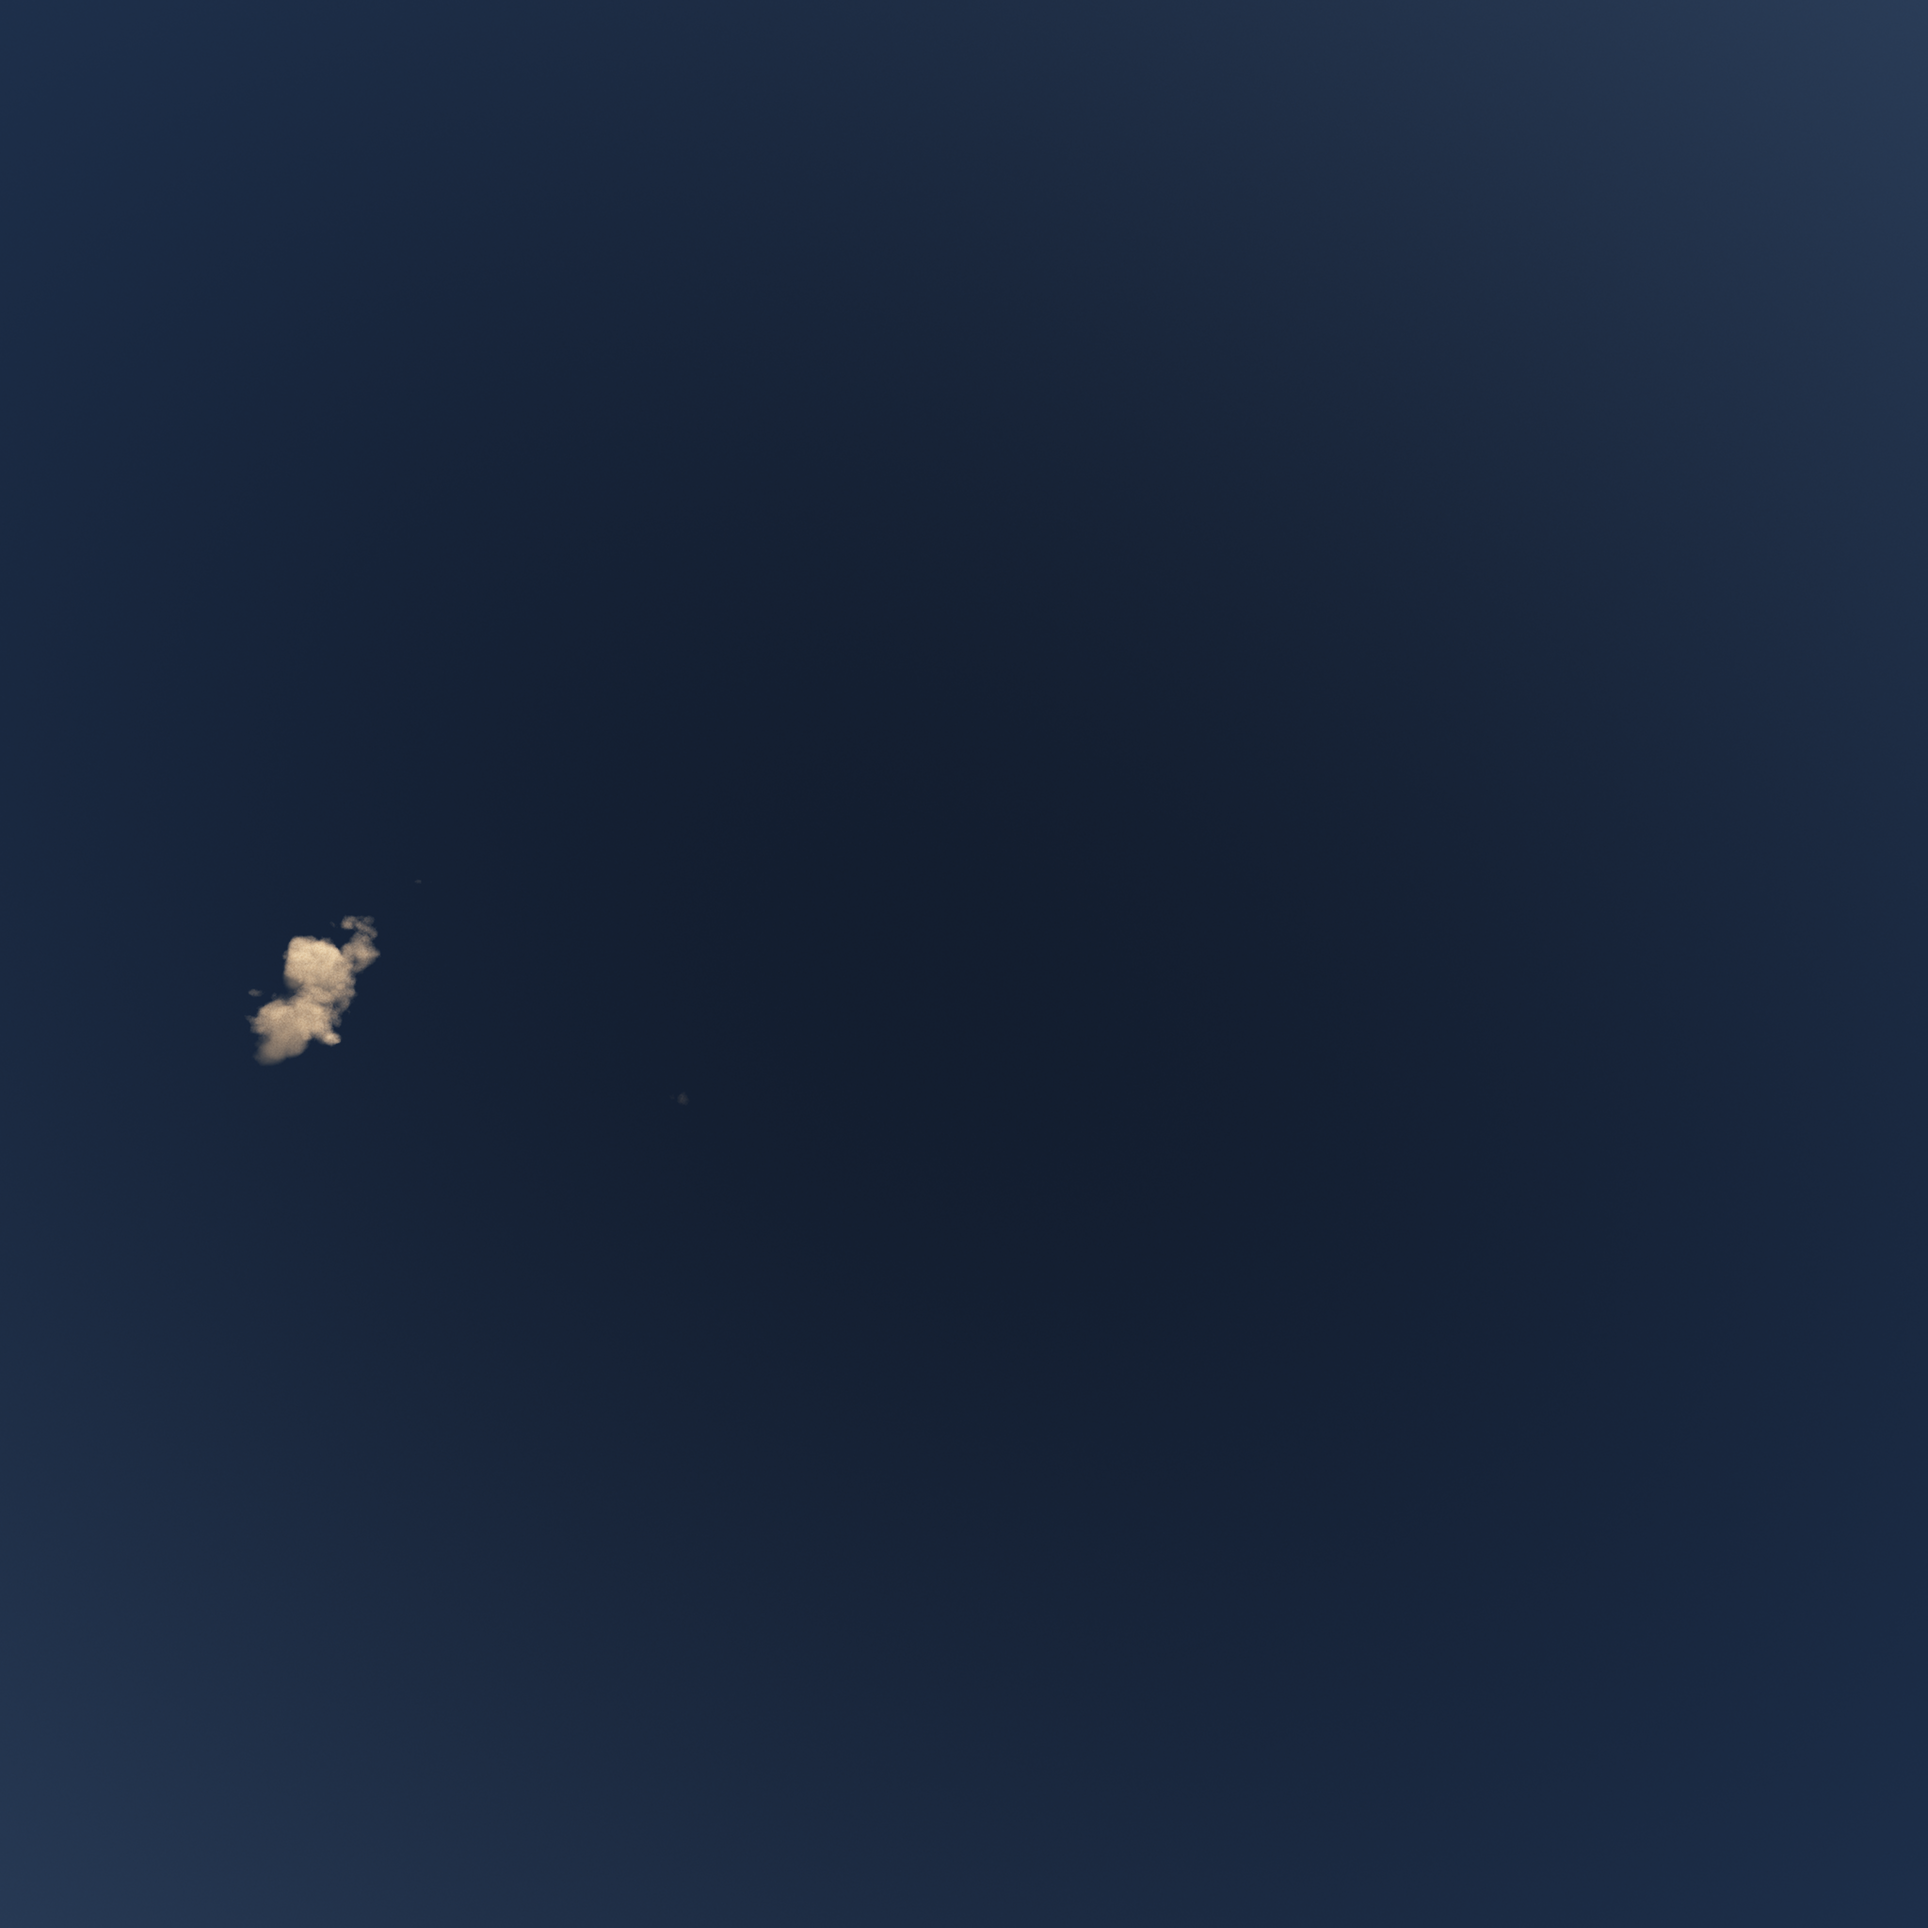
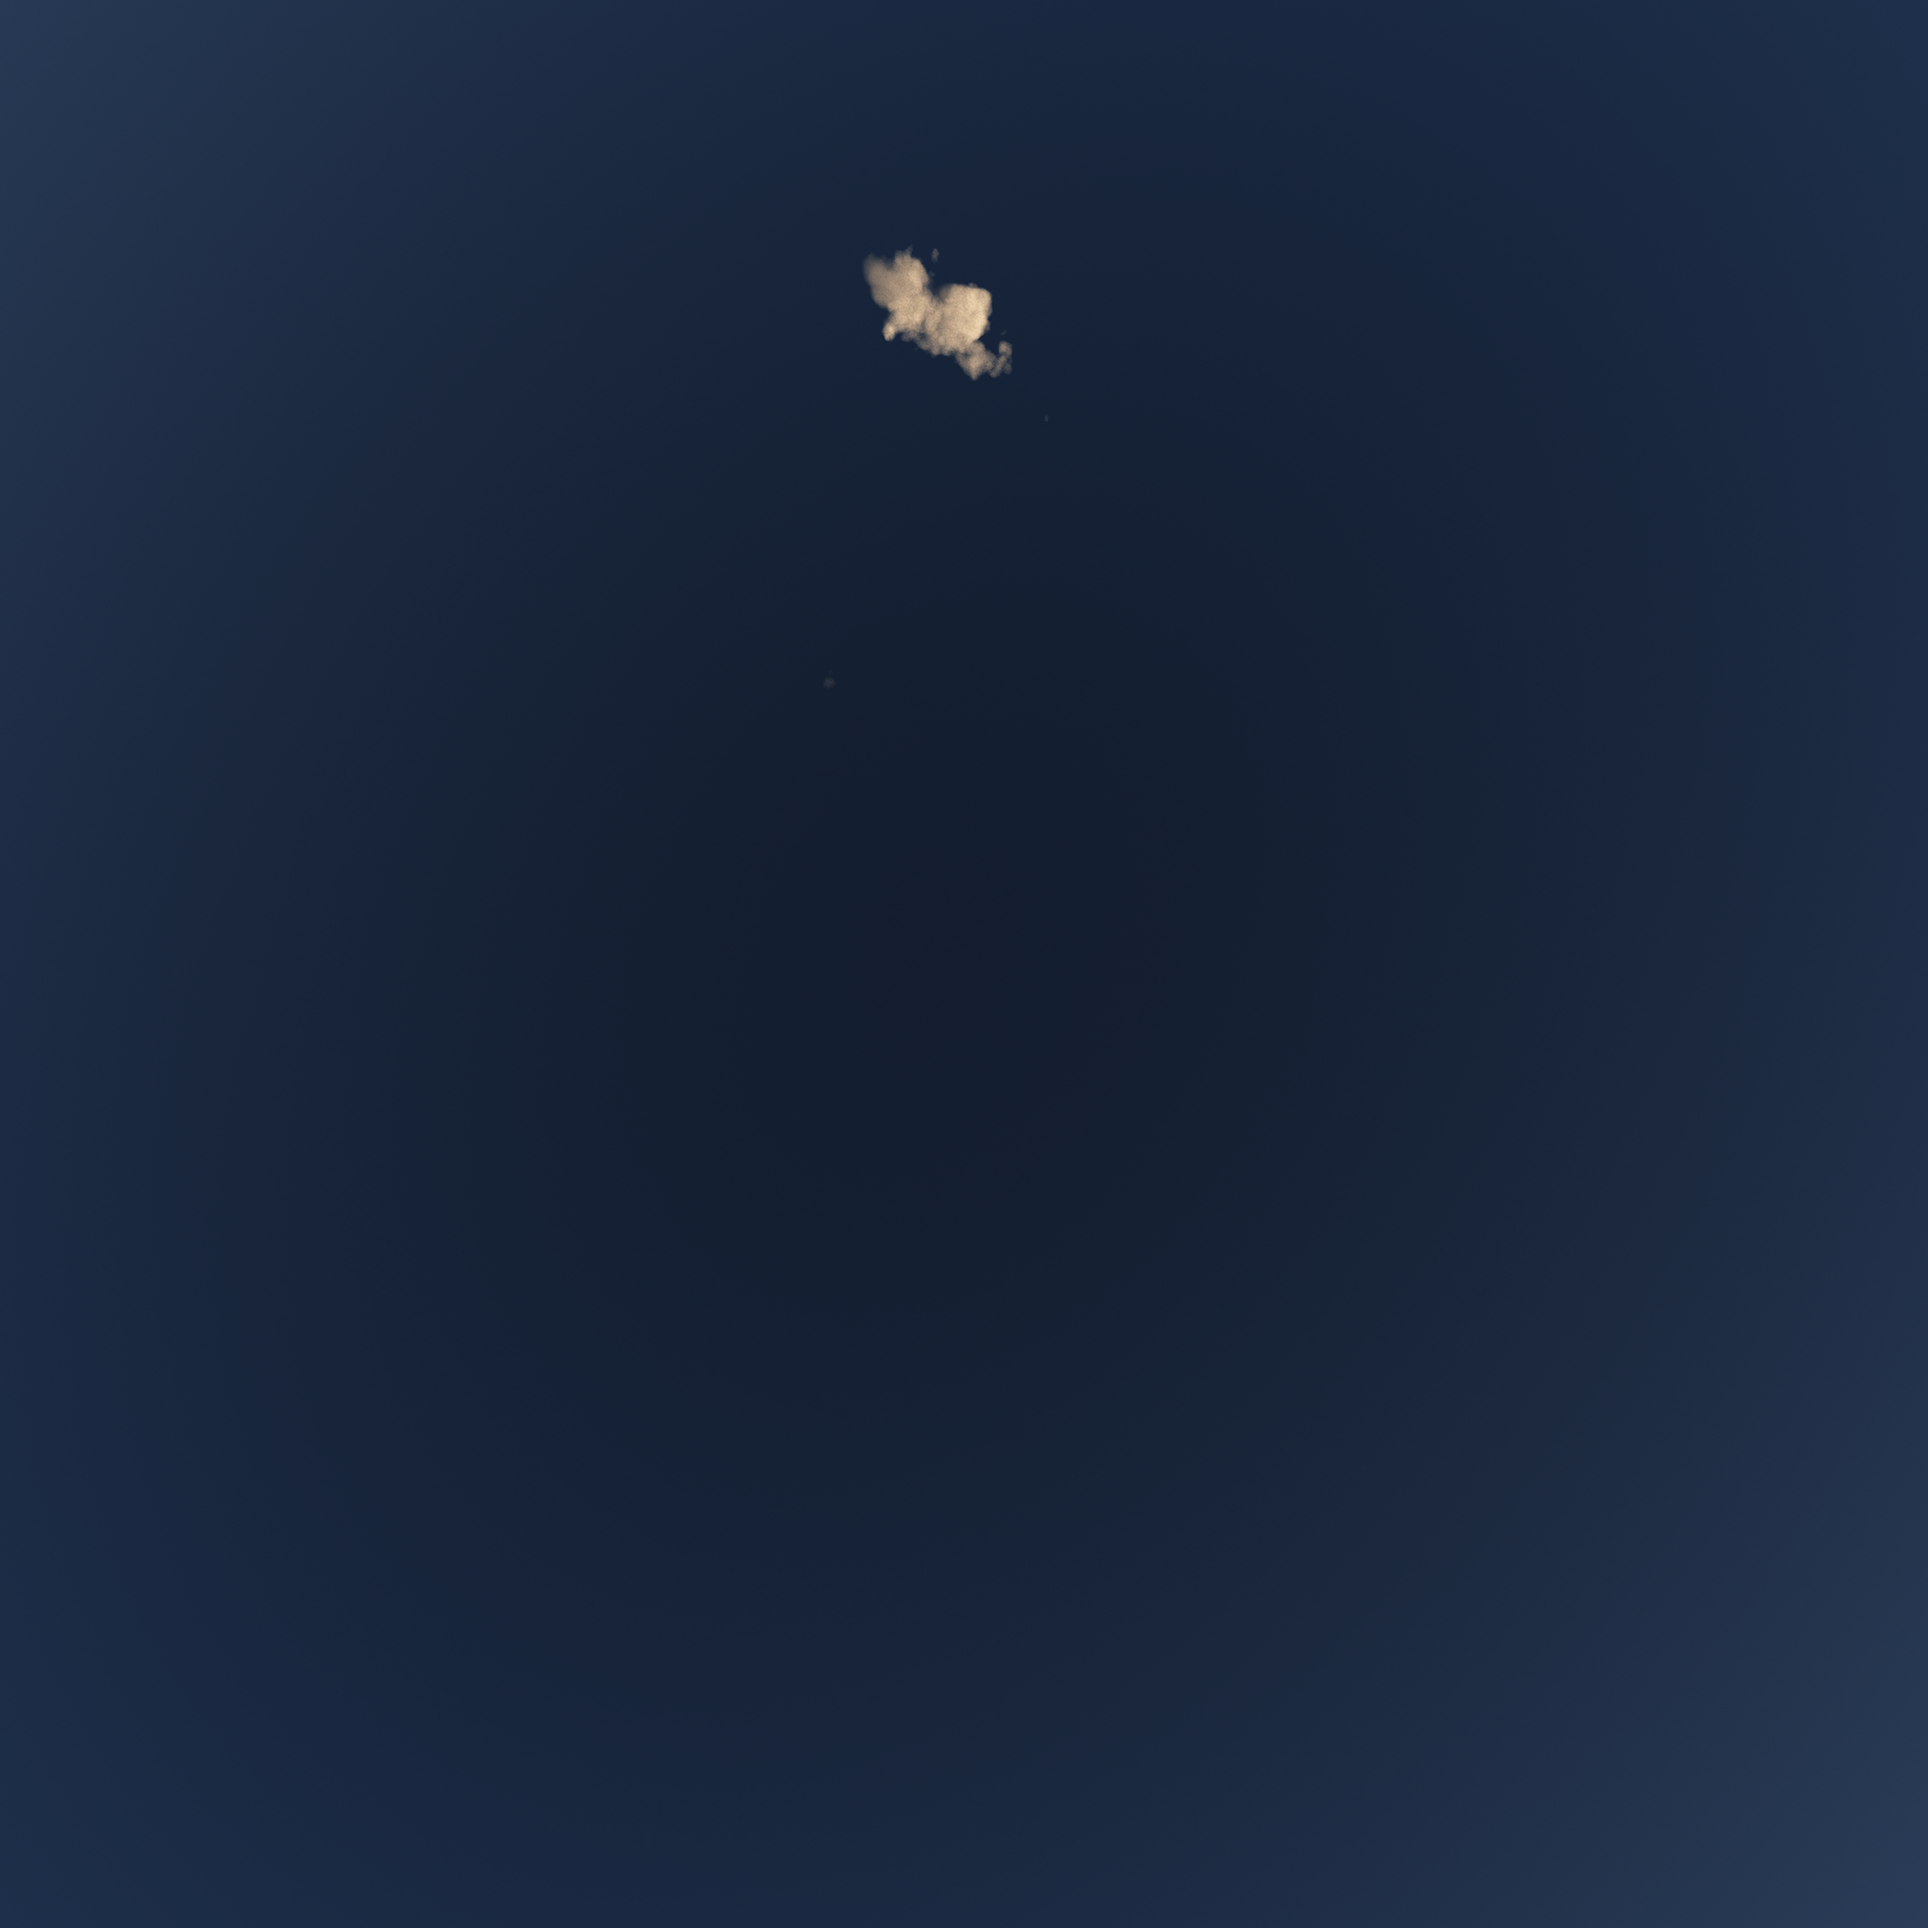
Added files via upload

Changed region(s): [[0.4375, 0.125, 0.5312, 0.2188], [0.125, 0.4688, 0.2188, 0.5625]]

diff --git a/FinalProjectWeb 1/js/cb.js b/FinalProjectWeb 1/js/cb.js
@@ -2,21 +2,18 @@ var camera,mirrorCamera, scene, renderer, controls;
 var geometry, material, mesh;
 var arr=[];
 var arr1 = [];
+var arr2 = [];
 function init() {
   scene = new THREE.Scene();
   var width = window.innerWidth;
   var height = window.innerHeight;
 
-  camera = new THREE.PerspectiveCamera(45, width/height, 0.1, 25000);
+  camera = new THREE.PerspectiveCamera(45, width/height, 0.1, 125000);
   camera.position.set(0, 300, 700);
   scene.add(camera);
 
-  var spotlight = new THREE.SpotLight(0xffffff);
-  spotlight.position.set(100, 4000, 4000);
 
-  scene.add(spotlight);
-
-  mirrorCamera = new THREE.CubeCamera(0.1, 8000, 512);
+  mirrorCamera = new THREE.CubeCamera(0.1, 120000, 512);
 
   scene.add(mirrorCamera);
 
@@ -24,11 +21,11 @@ function init() {
 
   var loader = new THREE.JSONLoader();
   loader.load('js/spaceship.json', function(mgeometry){
-  for (var object = 0; object < 25; object ++){
+  for (var object = 0; object < 50; object ++){
 
   var modelMesh = new THREE.Mesh(mgeometry, material1);
             modelMesh.scale.set(25, 25, 25);
-            modelMesh.position.x = (Math.random() - 0.6) * 5000;
+            modelMesh.position.x = (Math.random() - 0.6) * 6000;
             modelMesh.position.y = (Math.random() - 0.6) * 5000;
             modelMesh.position.z = (Math.random() - 0.6) * 5000;
             arr.push(modelMesh);
@@ -49,6 +46,23 @@ function init() {
             scene.add(modelMesh);}
 
     });
+
+
+  var mothershiploader = new THREE.JSONLoader();
+    mothershiploader.load('js/mothership.json', function(mgeometry){
+    for (var object = 0; object < 1; object ++){
+
+    var modelMesh = new THREE.Mesh(mgeometry, material1);
+              modelMesh.scale.set(500, 500, 500);
+              modelMesh.position.x = -5000;
+              modelMesh.position.y = -5000;
+              modelMesh.position.z = -5000;
+              arr2.push(modelMesh);
+              scene.add(modelMesh);}
+
+      });
+
+
 
 
   // skybox files
@@ -75,11 +89,13 @@ function init() {
     side: THREE.BackSide
   });
 
-  var geometry = new THREE.BoxGeometry(8000, 8000, 8000);
+  var geometry = new THREE.BoxGeometry(120000, 120000, 120000);
 
   var mesh = new THREE.Mesh(geometry, material);
 
   scene.add(mesh);
+
+
 
 
 
@@ -99,11 +115,16 @@ function animate() {
   renderer.render(scene, camera);
   controls.update();
   for(var i=0;i <arr.length;i++){
-    arr[i].position.x -= 1.5 ;
+    arr[i].position.x -= 15 ;
   }
 
+
   for (var i= 0; i < arr1.length; i++){
-    arr1[i].position.x -= 0.3;
+    arr1[i].position.x -= 9;
+  }
+
+  for (var i= 0; i < arr2.length; i++){
+    arr2[i].position.x -= 5;
   }
 
 

diff --git a/FinalProjectWeb 1/space.html b/FinalProjectWeb 1/space.html
@@ -3,14 +3,7 @@
   <head>
     <meta charset="UTF-8">
     <title> Space </title>
-
-    <style>
-      body {
-        background-color: white;
-        margin: 0;
-        padding: 0;
-      }
-    </style>
+    <link rel= "stylesheet" type = "text/css" href="css/style.css">
   </head>
 
   <body>

diff --git a/FinalProjectWeb 1/css/style.css b/FinalProjectWeb 1/css/style.css
@@ -1,0 +1,8 @@
+
+body{
+
+  background-color: white;
+  margin: 0;
+  padding: 0;
+
+}
